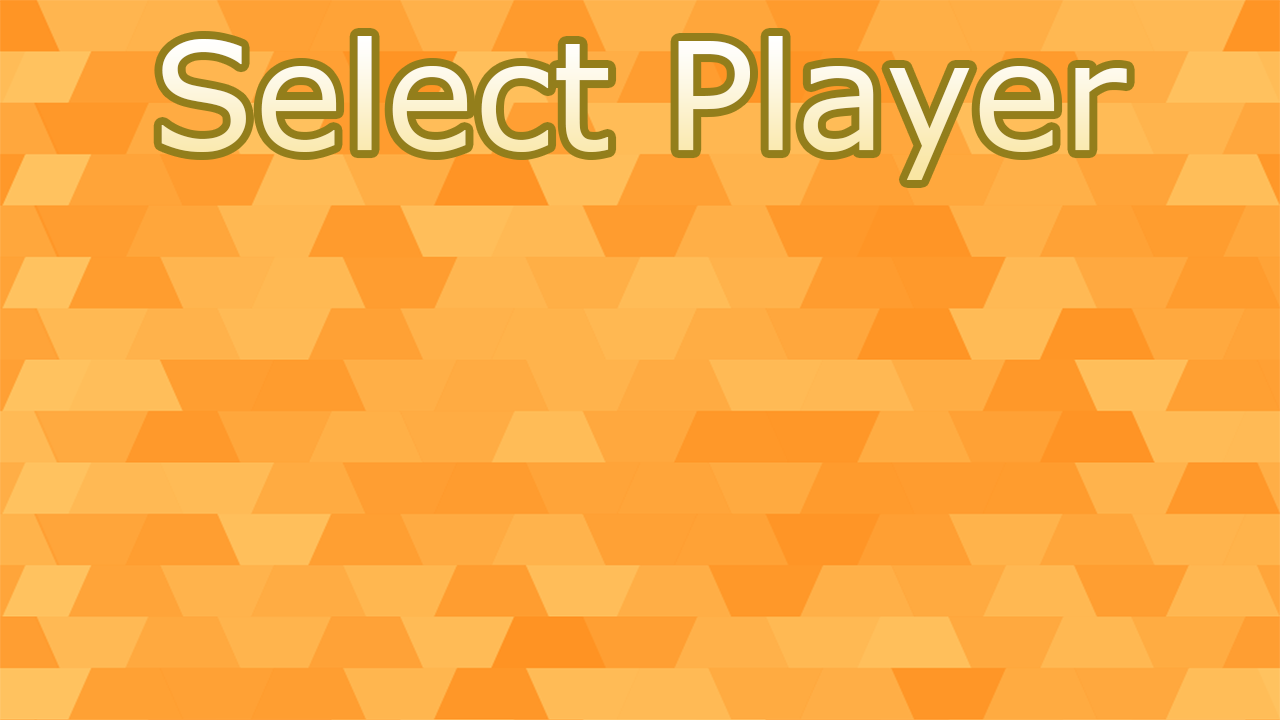
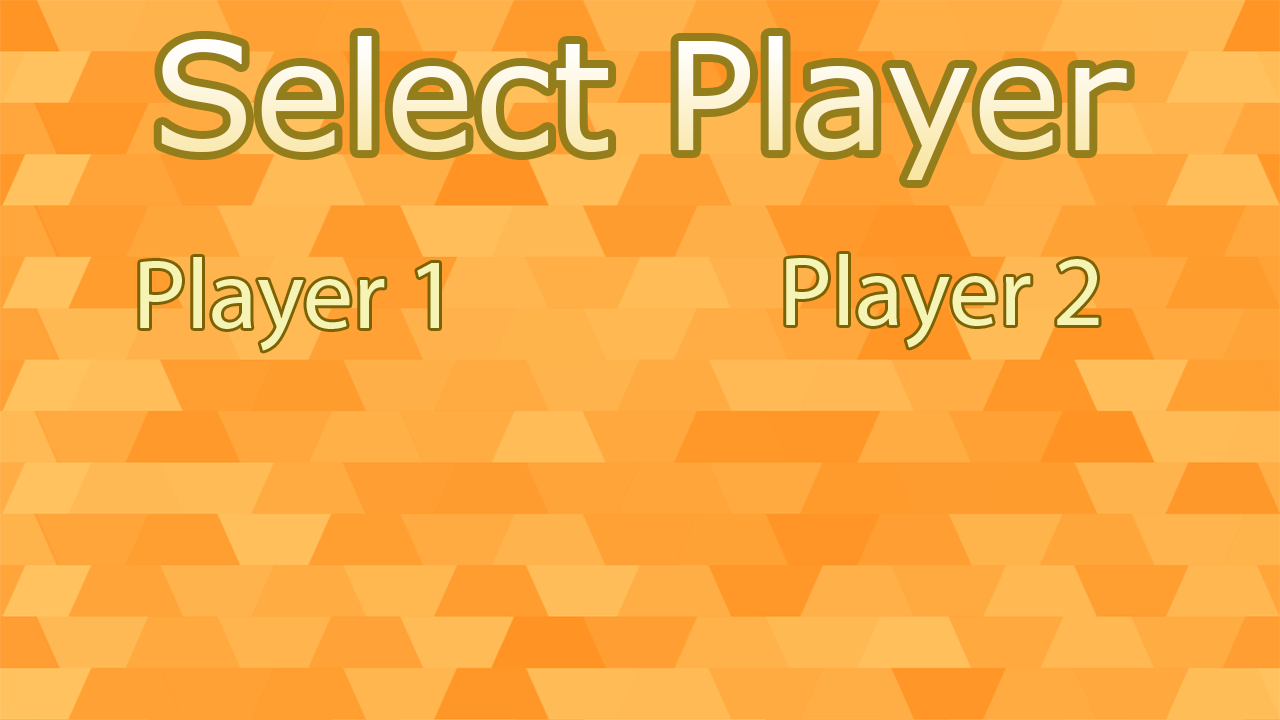
Layout setting

Changed region(s): [[0.5938, 0.3361, 0.875, 0.4889], [0.0938, 0.3361, 0.3438, 0.4889]]

diff --git a/src/gui/FieldCell.java b/src/gui/FieldCell.java
@@ -28,9 +28,10 @@ import interact.Player;
 import interact.ExplodingTile;
 import javafx.event.EventHandler;
 import javafx.geometry.Insets;
-
+import javafx.scene.control.Label;
 import entity.base.Entity;
 import application.Main;
+import gui.ControlPane;
 
 //You might need to do something to the following line
 public class FieldCell extends Button {
@@ -100,8 +101,12 @@ public class FieldCell extends Button {
 								boolean ch2 = GameController.checkbfs(GameController.getPlayer2(), 0);
 								System.out.println("----end-----");
 								System.out.println(ch1 + " " + ch2);
+								
 								if (ch1 && ch2) {
 									pass = true;
+									String playermessage = GameController.getTurn()%2 == 1? "Player 1 placed a barricade":"Player 2 placed a barricade";
+									ControlPane.noti = playermessage;
+					
 									if (GameController.getTurn() % 2 == 1)
 										GameController.getPlayer1().setBarricade(haveBarricade - 1);
 									else
@@ -133,6 +138,8 @@ public class FieldCell extends Button {
 								boolean ch2 = GameController.checkbfs(GameController.getPlayer2(), 0);
 								if (ch1 && ch2) {
 									pass = true;
+									String playermessage = GameController.getTurn()%2 == 1? "Player 1 placed a barricade":"Player 2 placed a barricade";
+									ControlPane.noti = playermessage;
 									if (GameController.getTurn() % 2 == 1)
 										GameController.getPlayer1().setBarricade(haveBarricade - 1);
 									else
@@ -157,6 +164,8 @@ public class FieldCell extends Button {
 										now.getEntity().getY(), GameController.getPlayer1().getX(),
 										GameController.getPlayer1().getY());
 								pass = true;
+								String playermessage = GameController.getTurn()%2 == 1? "Player 1 moved":"Player 2 moved";
+								ControlPane.noti = playermessage;
 							} catch (Exception ee) {
 								System.out.println("can not move there");
 							}
@@ -166,6 +175,8 @@ public class FieldCell extends Button {
 										now.getEntity().getY(), GameController.getPlayer2().getX(),
 										GameController.getPlayer2().getY());
 								pass = true;
+								String playermessage = GameController.getTurn()%2 == 1? "Player 1 moved":"Player 2 moved";
+								ControlPane.noti = playermessage;
 							} catch (Exception ee) {
 								System.out.println("can not move there");
 							}
@@ -181,6 +192,8 @@ public class FieldCell extends Button {
 						try {
 							GameController.placeBomb(now.getEntity().getX(), now.getEntity().getY());
 							pass = true;
+							String playermessage = GameController.getTurn()%2 == 1? "Player 1 placed a bomb":"Player 2 placed a bomb";
+							ControlPane.noti = playermessage;
 							if (GameController.getTurn() % 2 == 1)
 								GameController.getPlayer1().setHaveExploding(haveBomb - 1);
 							else
@@ -198,6 +211,8 @@ public class FieldCell extends Button {
 						try {
 							GameController.removeBarricade(now.getEntity().getX(), now.getEntity().getY());
 							pass = true;
+							String playermessage = GameController.getTurn()%2 == 1? "Player 1 removed a barricade":"Player 2 removed a barricade";
+							ControlPane.noti = playermessage;
 							if (GameController.getTurn() % 2 == 1)
 								GameController.getPlayer1().setHaveRemoveBarricade(haveRemoveBarricade - 1);
 							else

diff --git a/src/application/Main.java b/src/application/Main.java
@@ -156,7 +156,7 @@ public class Main extends Application {
 
 		controlPane = new ControlPane();
 		fieldPane = new FieldPane();
-		root2.setBackground(new Background(new BackgroundFill(Color.ORANGE, CornerRadii.EMPTY, Insets.EMPTY)));
+		root2.setBackground(new Background(new BackgroundFill(Color.SANDYBROWN, CornerRadii.EMPTY, Insets.EMPTY)));
 		root2.getChildren().add(controlPane);
 		root2.getChildren().add(fieldPane);
 
@@ -365,7 +365,7 @@ public class Main extends Application {
 		ImageView ivL = new ImageView(leftI);
 
 		left1 = new Button("", ivL);
-		left1.setLayoutX(xposlr);
+		left1.setLayoutX(xposlr + 100);
 		left1.setLayoutY(yposlr);
 		left1.setBackground(new Background(new BackgroundFill(Color.WHITE, CornerRadii.EMPTY, Insets.EMPTY)));
 		left1.setBorder(new Border(
@@ -402,7 +402,7 @@ public class Main extends Application {
 		ImageView ivLL = new ImageView(leftII);
 
 		left2 = new Button("", ivLL);
-		left2.setLayoutX(xposlr + 800);
+		left2.setLayoutX(xposlr + 730);
 		left2.setLayoutY(yposlr);
 		left2.setBackground(new Background(new BackgroundFill(Color.WHITE, CornerRadii.EMPTY, Insets.EMPTY)));
 		left2.setBorder(new Border(
@@ -439,7 +439,7 @@ public class Main extends Application {
 		ImageView ivR = new ImageView(rightI);
 
 		right1 = new Button("", ivR);
-		right1.setLayoutX(xposlr + 100);
+		right1.setLayoutX(xposlr + 200);
 		right1.setLayoutY(yposlr);
 		right1.setBackground(new Background(new BackgroundFill(Color.WHITE, CornerRadii.EMPTY, Insets.EMPTY)));
 		right1.setBorder(new Border(
@@ -476,7 +476,7 @@ public class Main extends Application {
 		ImageView ivRR = new ImageView(rightII);
 
 		right2 = new Button("", ivRR);
-		right2.setLayoutX(xposlr + 900);
+		right2.setLayoutX(xposlr + 830);
 		right2.setLayoutY(yposlr);
 		right2.setBackground(new Background(new BackgroundFill(Color.WHITE, CornerRadii.EMPTY, Insets.EMPTY)));
 		right2.setBorder(new Border(
@@ -510,9 +510,9 @@ public class Main extends Application {
 
 		P1 = new Button();
 		P2 = new Button();
-		P1.setLayoutX(xposlr + 50);
+		P1.setLayoutX(xposlr + 150); /////////////////////////////////////////////////////////////
 		P1.setLayoutY(yposlr - 100);
-		P2.setLayoutX(xposlr + 850);
+		P2.setLayoutX(xposlr + 780);
 		P2.setLayoutY(yposlr - 100);
 		root5.getChildren().add(P1);
 		root5.getChildren().add(P2);

diff --git a/src/gui/ControlPane.java b/src/gui/ControlPane.java
@@ -16,6 +16,7 @@ import logic.GameController;
 
 public class ControlPane extends VBox {
 
+	
 	private ItemPane itemPane;
 	private static Label turn = new Label();
 	private static Label playerTurn = new Label();
@@ -23,6 +24,8 @@ public class ControlPane extends VBox {
 	private static Label lp = new Label();
 	private static Label bomb = new Label();
 	private static Label removeBarricade = new Label();
+	public static Label notification = new Label();
+	protected static String noti = new String();
 	
 	public ControlPane() {
 		super();
@@ -39,14 +42,14 @@ public class ControlPane extends VBox {
 		label.setFont(new Font(14));
 		labelUpdate();
 
-		this.getChildren().addAll(turn, playerTurn, haveBarricade, lp, bomb,removeBarricade, label, itemPane);
+		this.getChildren().addAll(notification, turn, playerTurn, haveBarricade, lp, bomb,removeBarricade, label, itemPane);
 	}
 
 	public static void labelUpdate() {
-		turn.textProperty().setValue("Turn: " + GameController.getTurn());
+		turn.textProperty().setValue("\n\nTurn: " + GameController.getTurn());
 		turn.setFont(Font.font("Turn: " + GameController.getTurn(), FontPosture.ITALIC, 20));
-		playerTurn.textProperty().setValue(GameController.getTurn() % 2 == 1 ? "Player 1" : "Player 2");
-		playerTurn.setFont(new Font(14));
+		playerTurn.textProperty().setValue(GameController.getTurn() % 2 == 1 ? "Player 1 Turn" : "Player 2 Turn");
+		playerTurn.setFont(new Font(20));
 		haveBarricade.textProperty().setValue(
 				"Barricade: " + (GameController.getTurn() % 2 == 1 ? GameController.getPlayer1().getHaveBaricade()
 						: GameController.getPlayer2().getHaveBaricade()));
@@ -60,9 +63,11 @@ public class ControlPane extends VBox {
 						: GameController.getPlayer2().getHaveExploding()));
 		bomb.setFont(new Font(14));
 		removeBarricade.textProperty().setValue(
-				"Current RemoveBarricade: " + (GameController.getTurn() % 2 == 1 ? GameController.getPlayer1().getHaveRemoveBarricade()
+				"Current Barricade removal: " + (GameController.getTurn() % 2 == 1 ? GameController.getPlayer1().getHaveRemoveBarricade()
 						: GameController.getPlayer2().getHaveRemoveBarricade()));
 		removeBarricade.setFont(new Font(14));
+		notification.textProperty().setValue(noti);
+		notification.setFont(new Font(22));
 	}
 
 	public ItemPane getItemPane() {
